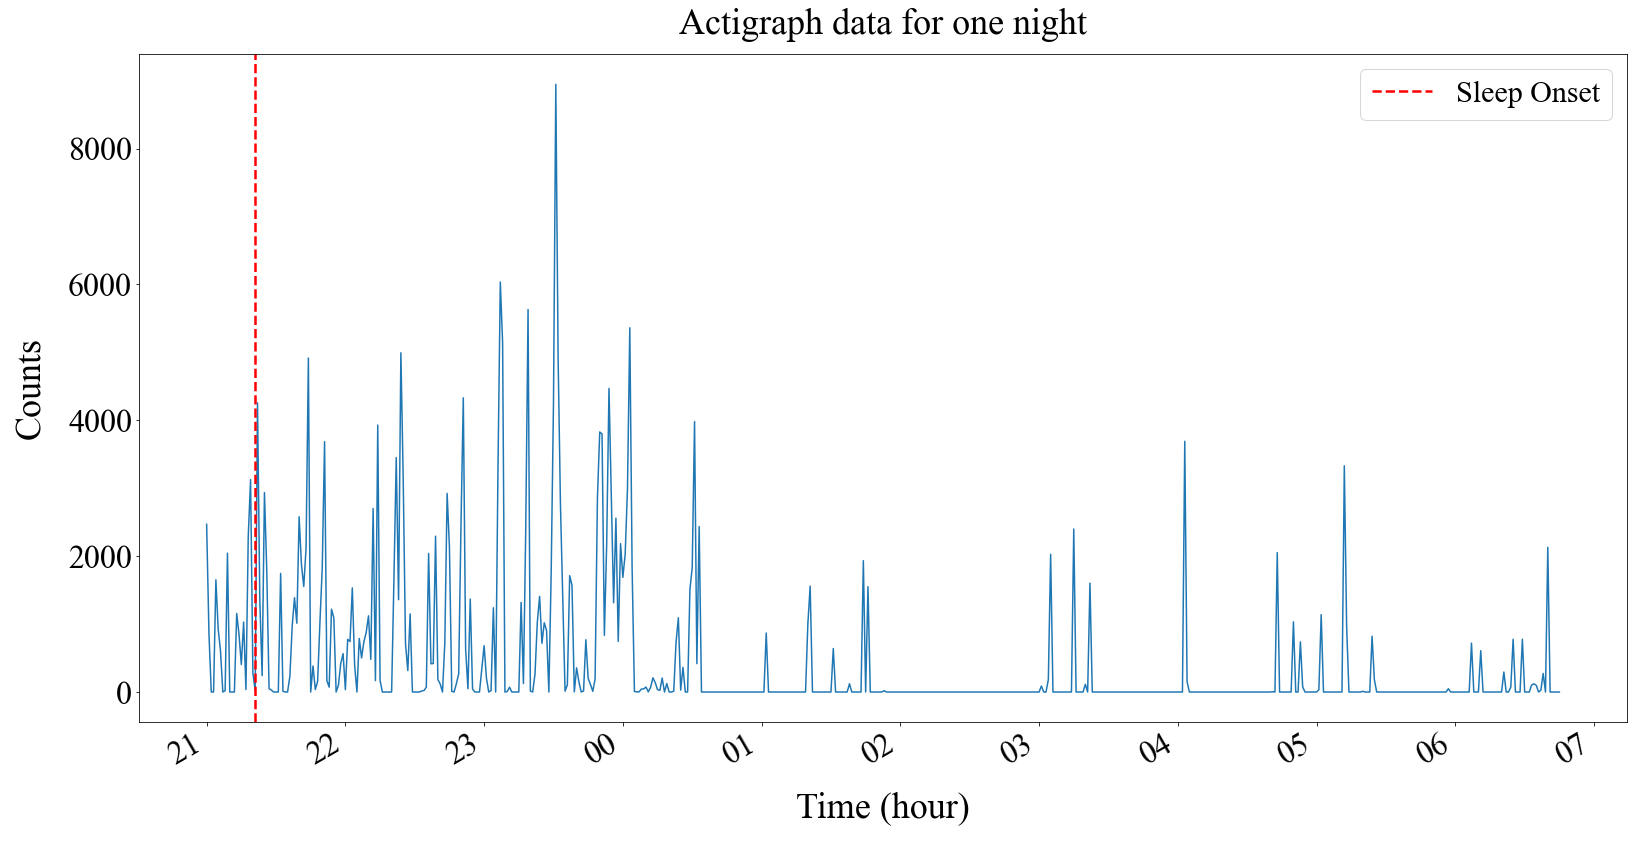
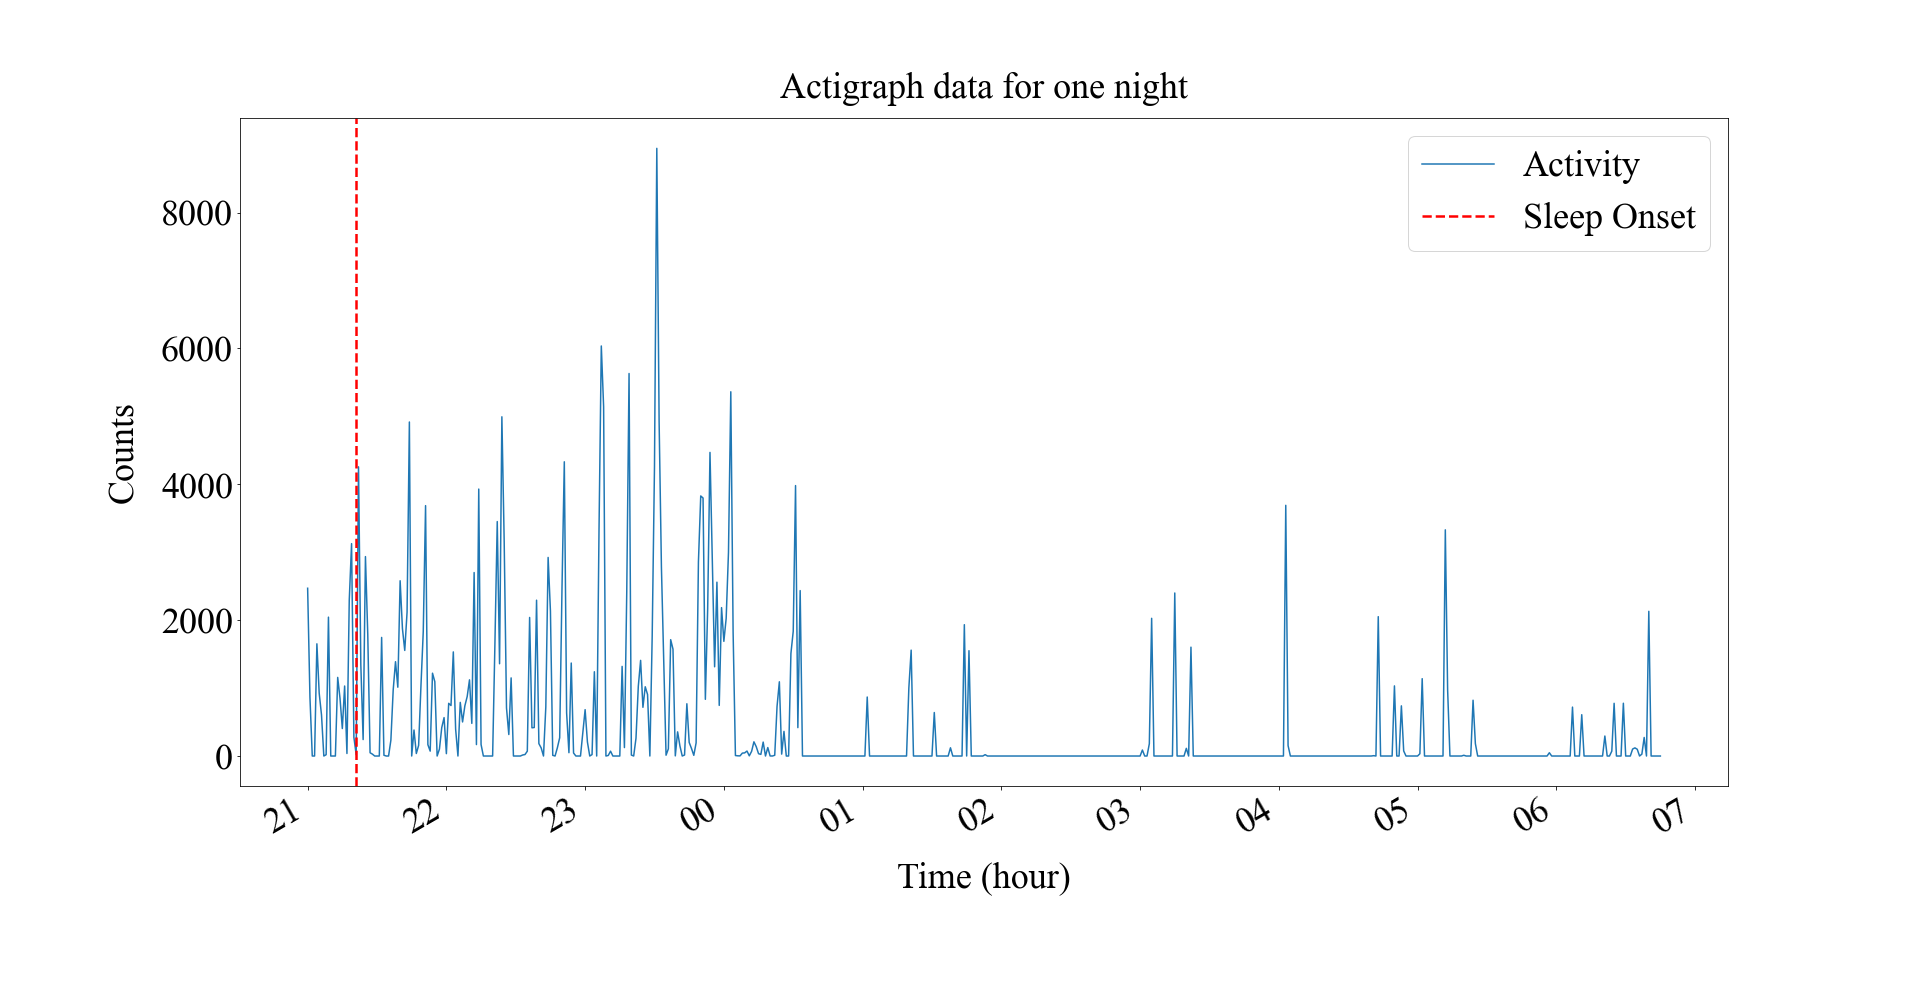
Change in plot of one night's actigraphy

diff --git a/ShowcaseScript.py b/ShowcaseScript.py
@@ -107,12 +107,12 @@ acti_interval1 = extract_one_night(in_bed, out_bed, acti_data)
 # plot_acti(acti_interval1)
 
 plt.figure()
-plt.plot(acti_interval1['DateTime'], acti_interval1['Magnitude'], '-') 
+plt.plot(acti_interval1['DateTime'], acti_interval1['Magnitude'], '-', label='Activity') 
 plt.title("Actigraph data for one night", fontsize=36, family='Times New Roman', pad=20)
 plt.xlabel("Time (hour)", fontsize=36, family='Times New Roman', labelpad=20)
 plt.ylabel("Counts", fontsize=36, family='Times New Roman', labelpad=20)
-plt.xticks(fontsize=32, family='Times New Roman')
-plt.yticks(fontsize=32, family='Times New Roman')
+plt.xticks(fontsize=36, family='Times New Roman')
+plt.yticks(fontsize=36, family='Times New Roman')
 
 # Set x-axis ticks to display only time
 plt.gca().xaxis.set_major_formatter(mdates.DateFormatter('%H'))
@@ -122,7 +122,7 @@ plt.gcf().autofmt_xdate()
 vertical_time = pd.to_datetime('2023-04-17 21:21:00')
 plt.axvline(x=pd.to_datetime(vertical_time), color='red', linestyle='--', label='Sleep Onset', linewidth=2.5)
 
-legend_font = {'family': 'Times New Roman', 'size': 30}
+legend_font = {'family': 'Times New Roman', 'size': 36}
 plt.legend(prop=legend_font)  # Place the legend at upper right
 
 
